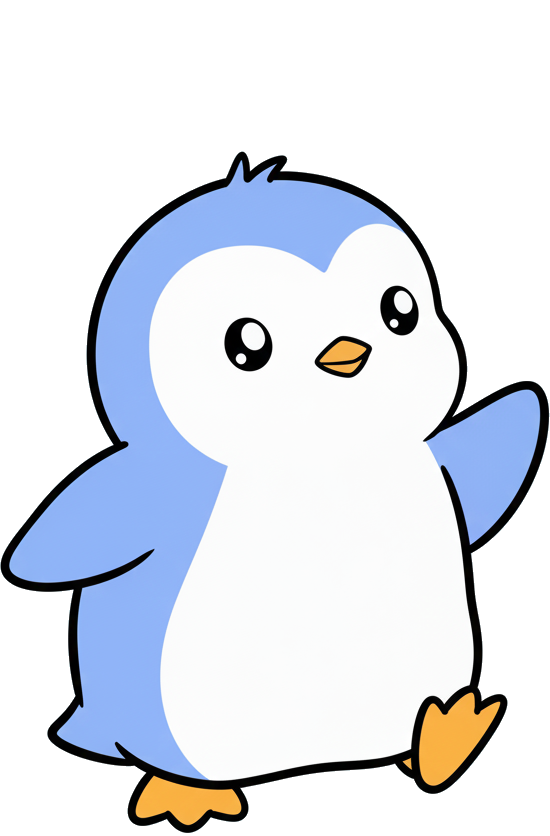
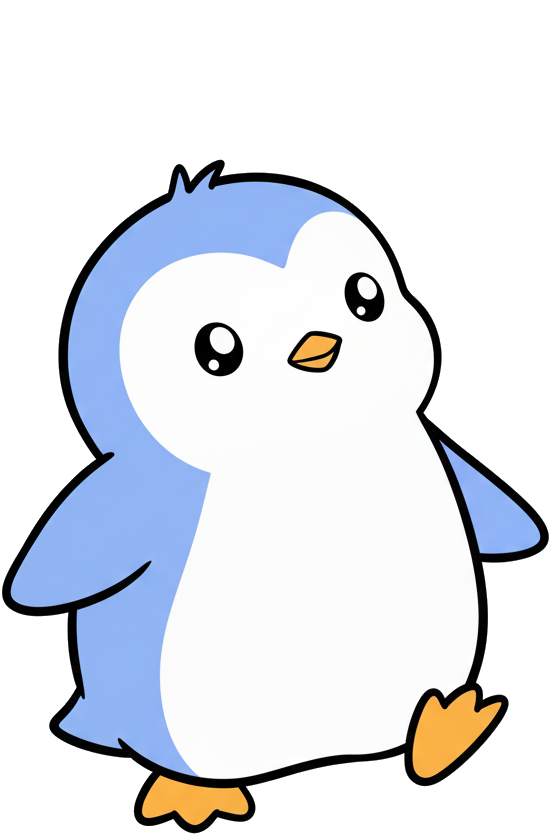
6 frames for penguins

Changed region(s): [[0.0, 0.1866, 1.0, 1.0], [0.34, 0.3732, 0.4945, 0.4665], [0.3091, 0.6842, 0.34, 0.7153]]

diff --git a/index.html b/index.html
@@ -230,7 +230,9 @@
             pudgy_walk_1: new Image(),
             pudgy_walk_2: new Image(),
             pudgy_walk_3: new Image(),
-            pudgy_walk_4: new Image()
+            pudgy_walk_4: new Image(),
+            pudgy_walk_5: new Image(),
+            pudgy_walk_6: new Image()
         };
 
         sprites.igloo.src = 'assets/igloo.png';
@@ -241,9 +243,11 @@
         sprites.pudgy_walk_2.src = 'assets/pudgy_walk_2.png';
         sprites.pudgy_walk_3.src = 'assets/pudgy_walk_3.png';
         sprites.pudgy_walk_4.src = 'assets/pudgy_walk_4.png';
+        sprites.pudgy_walk_5.src = 'assets/pudgy_walk_5.png';
+        sprites.pudgy_walk_6.src = 'assets/pudgy_walk_6.png';
 
         let spritesLoaded = 0;
-        const totalSprites = 8;
+        const totalSprites = 10;
 
         function onSpriteLoad() {
             spritesLoaded++;
@@ -266,6 +270,8 @@
         sprites.pudgy_walk_2.onload = onSpriteLoad;
         sprites.pudgy_walk_3.onload = onSpriteLoad;
         sprites.pudgy_walk_4.onload = onSpriteLoad;
+        sprites.pudgy_walk_5.onload = onSpriteLoad;
+        sprites.pudgy_walk_6.onload = onSpriteLoad;
 
         sprites.igloo.onerror = () => console.error('Failed to load igloo.png');
         sprites.ship.onerror = () => console.error('Failed to load ship.png');
@@ -275,6 +281,8 @@
         sprites.pudgy_walk_2.onerror = () => console.error('Failed to load pudgy_walk_2.png');
         sprites.pudgy_walk_3.onerror = () => console.error('Failed to load pudgy_walk_3.png');
         sprites.pudgy_walk_4.onerror = () => console.error('Failed to load pudgy_walk_4.png');
+        sprites.pudgy_walk_5.onerror = () => console.error('Failed to load pudgy_walk_5.png');
+        sprites.pudgy_walk_6.onerror = () => console.error('Failed to load pudgy_walk_6.png');
 
         function isSolidPixel(x, y) {
             x = Math.floor(x);
@@ -344,7 +352,7 @@
                 this.bobPhase = Math.random() * Math.PI * 2;
                 this.animationFrame = 0;
                 this.animationCounter = 0;
-                this.animationSpeed = 12; // frames between animation updates
+                this.animationSpeed = 16; // frames between animation updates
             }
 
             update() {
@@ -472,8 +480,8 @@
                 const offsetX = (spriteWidth - this.width) / 2;
                 const offsetY = (spriteHeight - this.height) / 2;
 
-                // Animation sequence: 1, 2, 3, 4, 3, 2 (repeating)
-                const animationSequence = [0, 1, 2, 3, 2, 1];
+                // Animation sequence: 1, 2, 3, 4, 5, 6, 5, 4, 3, 2 (repeating)
+                const animationSequence = [0, 1, 2, 3, 4, 5, 4, 3, 2, 1];
                 const currentFrame = animationSequence[this.animationFrame % animationSequence.length];
 
                 // Get the appropriate walk sprite
@@ -481,7 +489,9 @@
                     sprites.pudgy_walk_1,
                     sprites.pudgy_walk_2,
                     sprites.pudgy_walk_3,
-                    sprites.pudgy_walk_4
+                    sprites.pudgy_walk_4,
+                    sprites.pudgy_walk_5,
+                    sprites.pudgy_walk_6
                 ];
                 const currentSprite = walkSprites[currentFrame];
 
